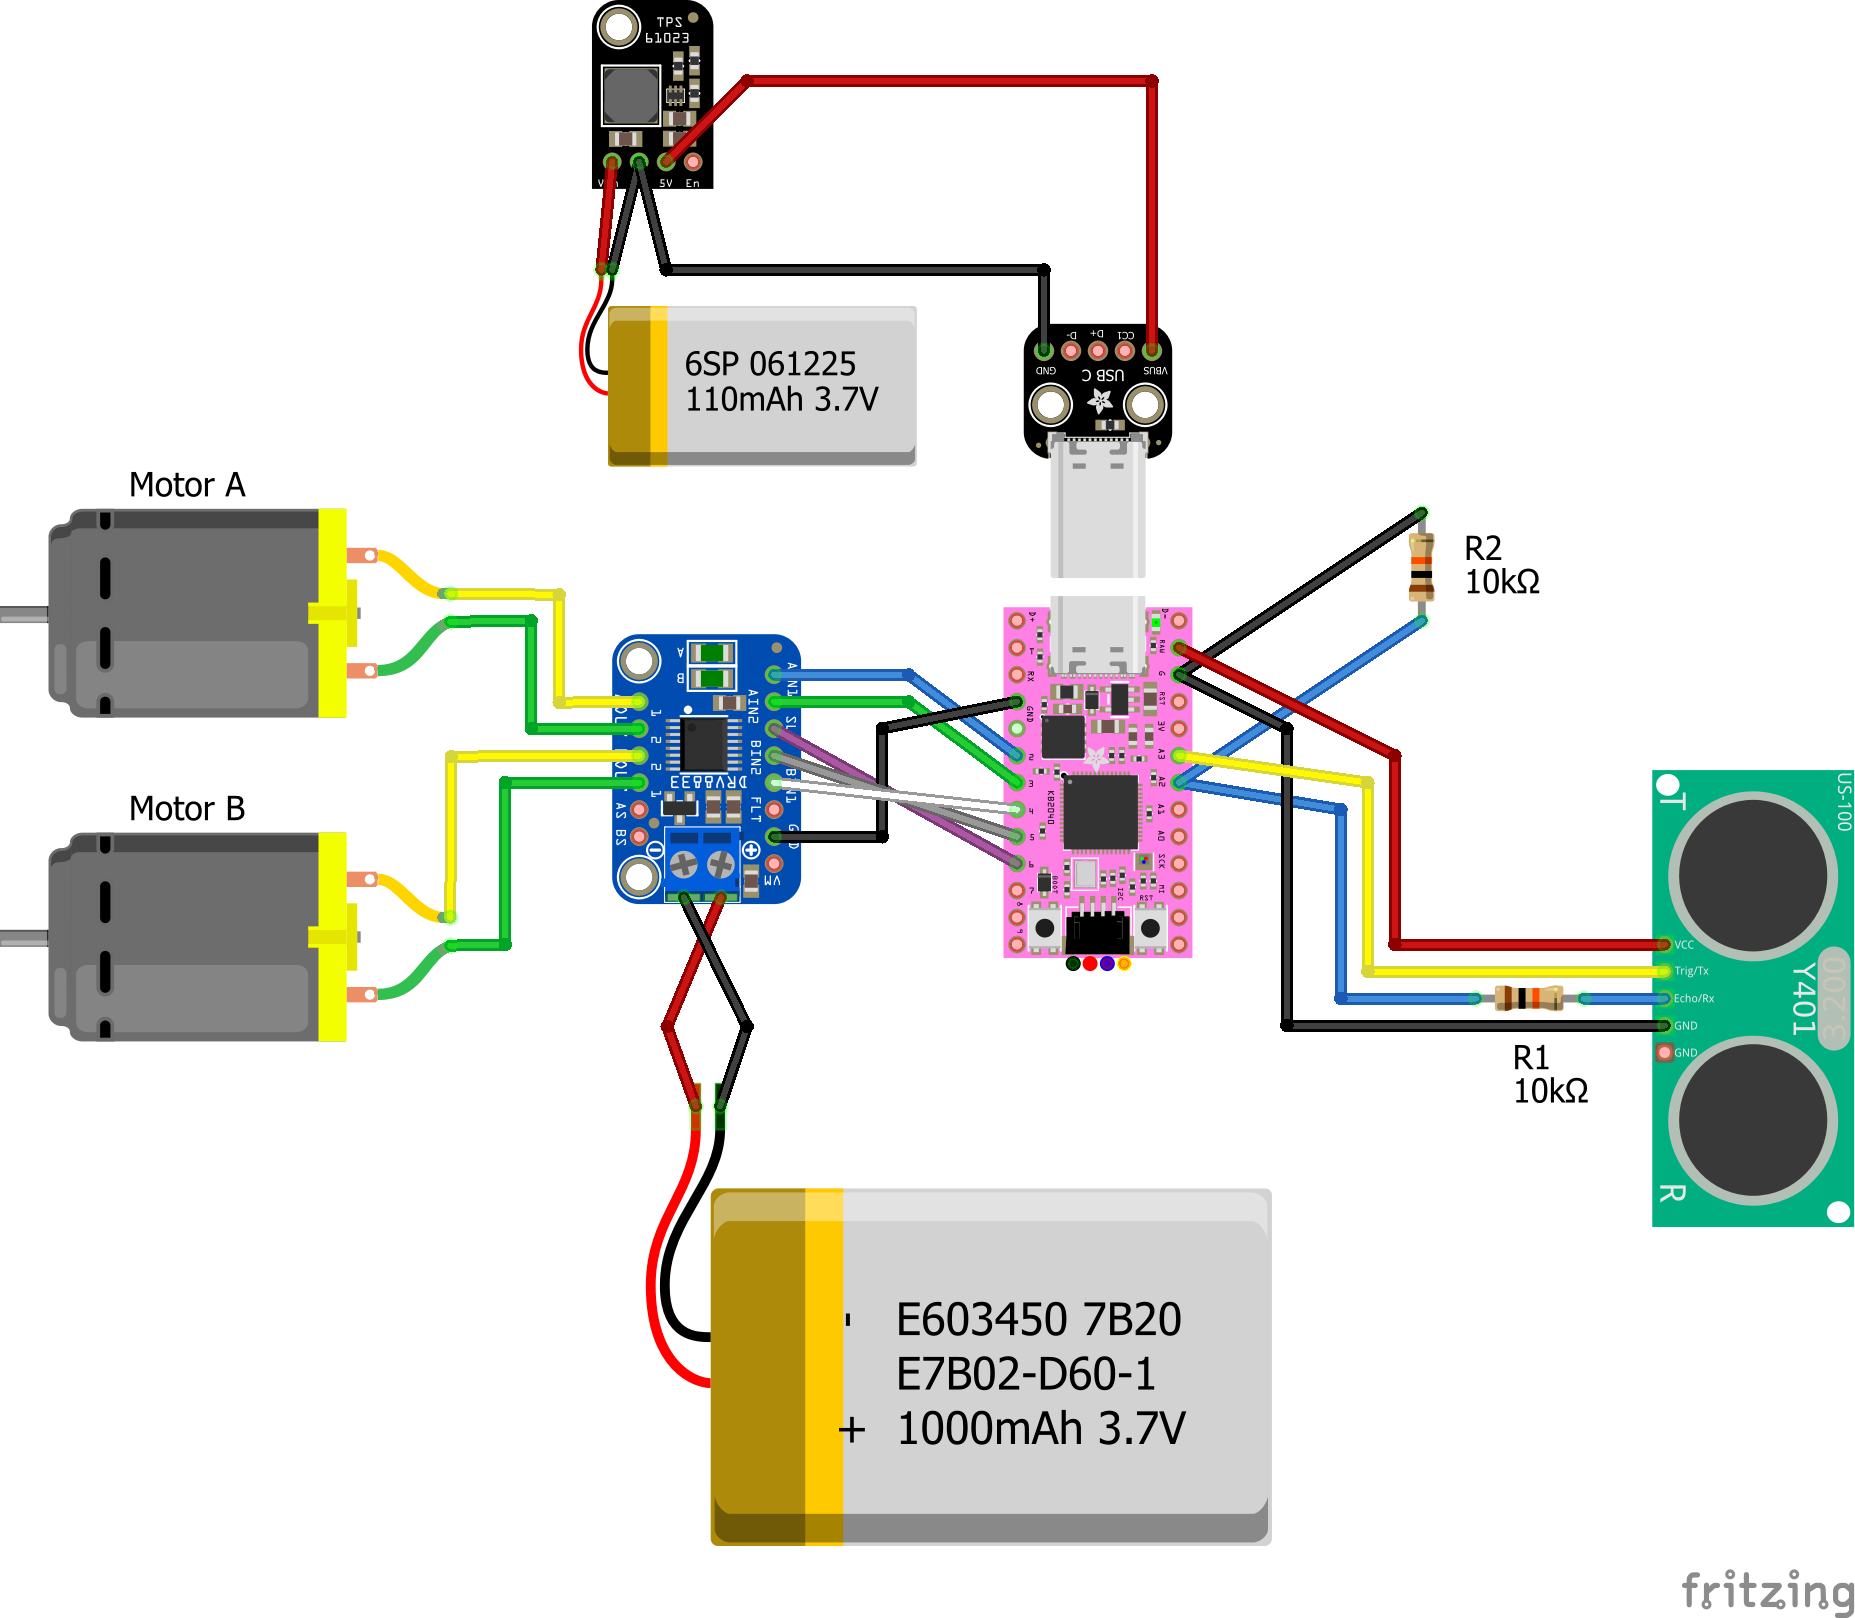
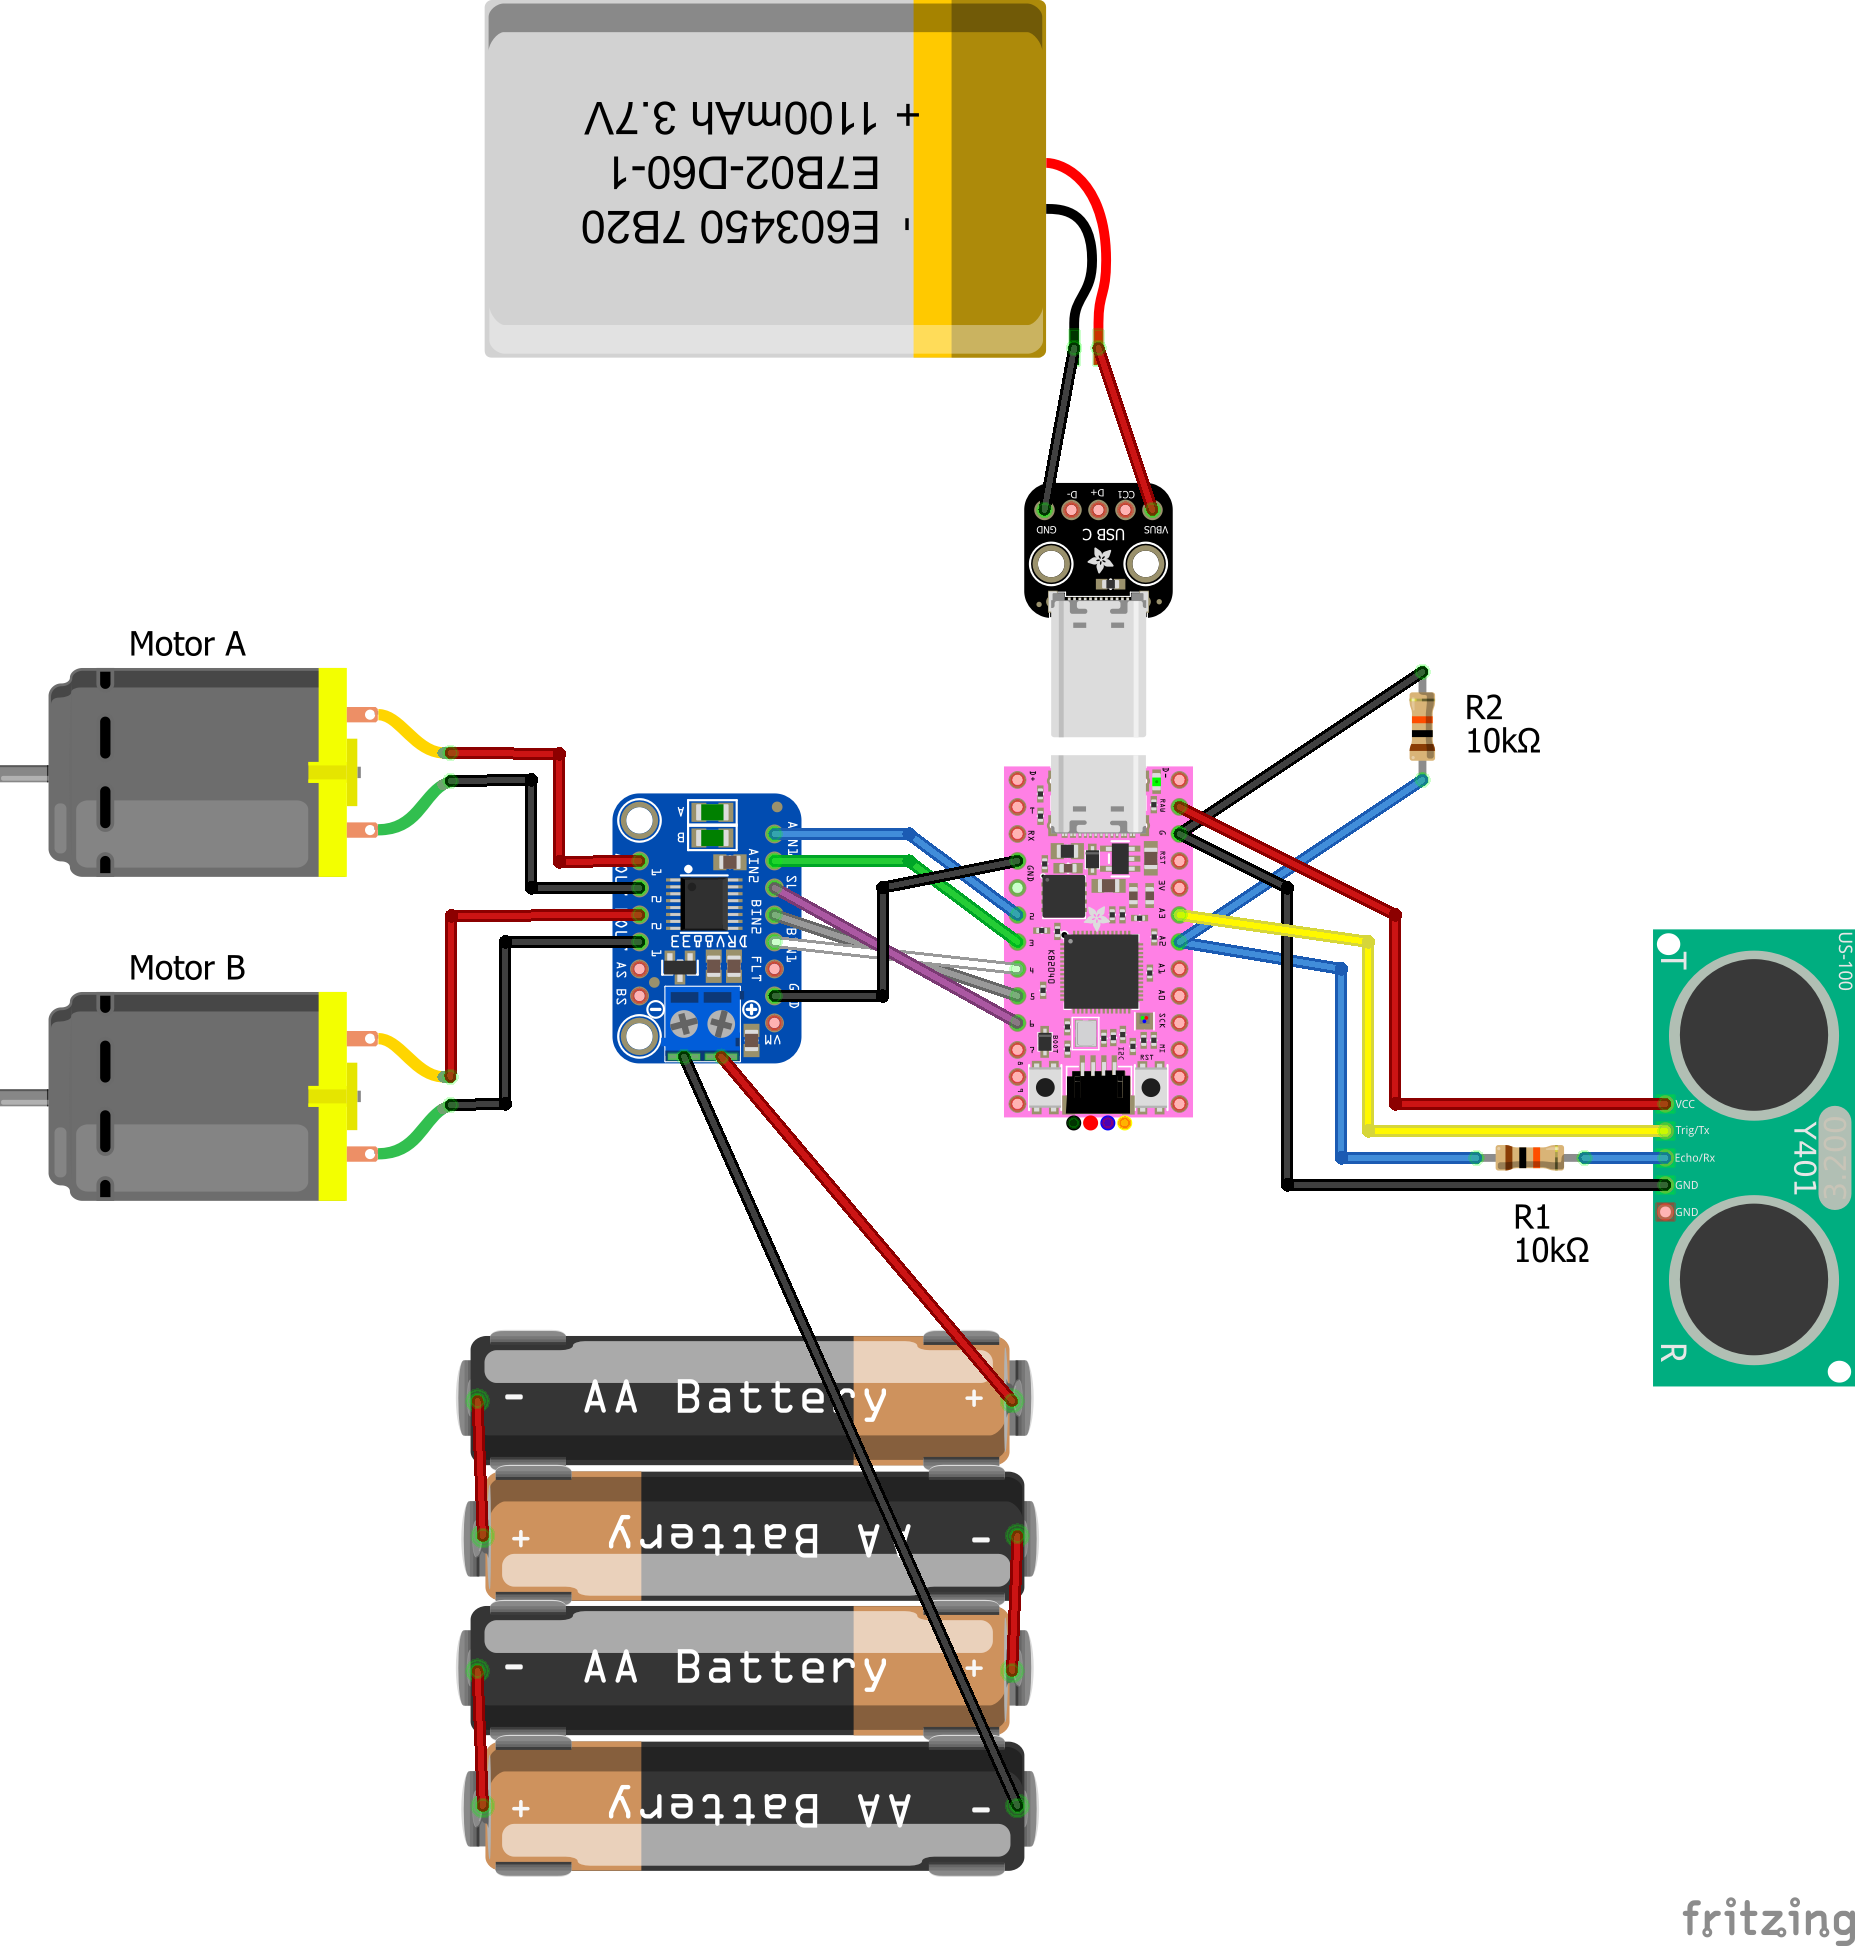
remove unnecessary power converter

diff --git a/README.md b/README.md
@@ -20,7 +20,6 @@ Simple two-wheel ultrasonic guided roaming robot. The primary goal of this robot
 |[HC-SR04](https://learn.adafruit.com/ultrasonic-sonar-distance-sensors?view=all) | ultrasonic distance sensor |1|
 |[DRV8833](https://learn.adafruit.com/adafruit-drv8833-dc-stepper-motor-driver-breakout-board?view=all) | DC Motor controller |1|
 |3D printed wheels| mobility |2|
-|[TPS61023 boost converter](https://www.adafruit.com/product/4654)| microcontroller power| 1|
 
 ## References
 
